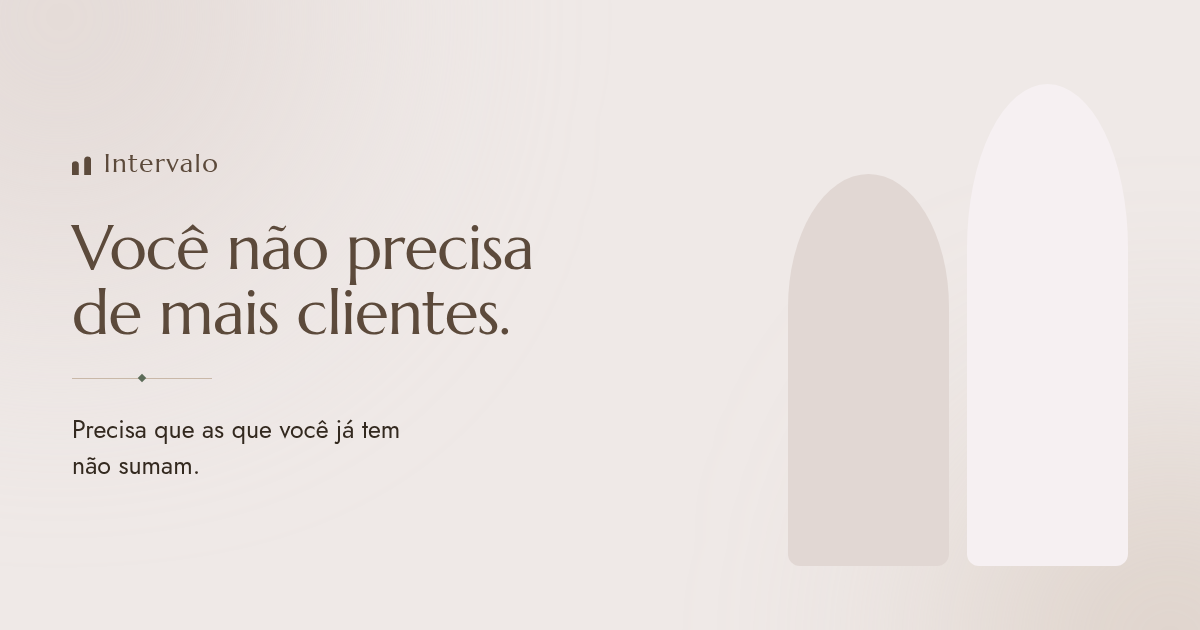
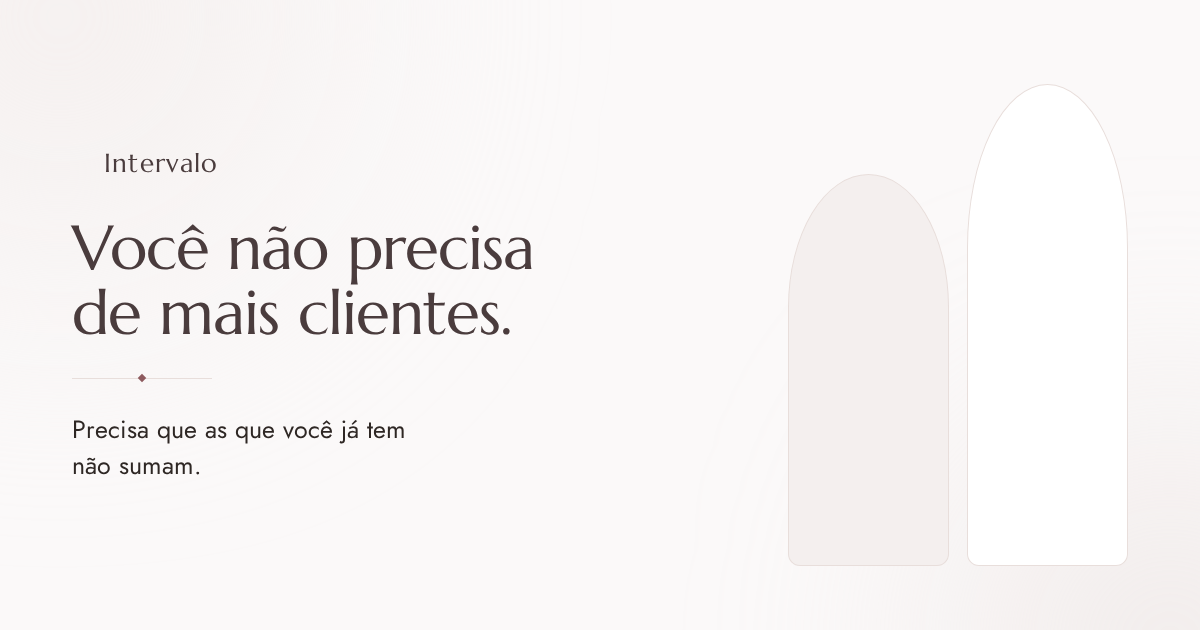
Paleta clara: o site deixa de se apoiar em bloco escuro
Direcao escolhida: branco e filete. As duas faixas escuras, o rodape e a tarja
de anuncio eram quatro massas de espresso que davam o peso — e o tom lido de
fora era mais cafe artesanal que clinica. O ritmo da pagina passa a vir de
mudanca sutil de superficie, de filete e de espaco.

Paleta nova, com contraste medido antes de escrever qualquer linha: canvas
#fbf9f9 (branco com um sopro de rosa — branco puro em tela cheia endurece),
porcelana #ffffff para superficie elevada, greige #f4efee para a faixa
alternada, espresso #4a3c3d nos titulos e botoes, tinta #2e2724 no corpo,
acento rosa-seco #8d5a5e e areia #e8dedb so em filete.

O acento foi escolhido por medicao, nao por gosto: um rosa mais claro passava
no canvas e reprovava sobre o greige, entao ficou o tom que passa nos tres
fundos (5.33 / 5.59 / 4.91).

`.faixa-escura` virou `.faixa-destaque` nas cinco paginas, e as vinte regras
que existiam so para reescrever cor sobre fundo escuro sairam — com fundo
claro, a cor padrao ja serve.

Tres defeitos que so apareceram porque foram procurados:

1. A auditoria de contraste conferia HEXES COPIADOS. Trocar a paleta inteira
   deixava ela imprimindo "ok" para cores que nao existiam mais em lugar
   nenhum. Os pares passam a nomear tokens e resolver o valor do JSON. Uma
   auditoria que mente e pior que nenhuma: ninguem confere a mao o que o
   comando ja aprovou.
2. `.rodape .identidade` e `.assinatura-marca` ficaram em greige sobre canvas,
[…]

diff --git a/site/estilo.css b/site/estilo.css
@@ -34,8 +34,13 @@ a:focus-visible, button:focus-visible, input:focus-visible, summary:focus-visibl
 .faixa { padding-block: var(--spacing-80); }
 .faixa-elevada { background: var(--surface-elevada); }
 .faixa-secundaria { background: var(--surface-secundaria); }
-.faixa-escura { background: var(--surface-escura); color: var(--color-greige); }
-.faixa-escura h1, .faixa-escura h2, .faixa-escura h3, .faixa-escura strong { color: var(--color-porcelana); }
+/* A faixa que antes era escura agora e um tom de fundo e dois filetes. O
+   ritmo da pagina passa a vir de mudanca sutil de superficie e de espaco,
+   nao de bloco escuro — que era o que pesava o site inteiro. */
+.faixa-destaque {
+  background: var(--surface-secundaria);
+  border-block: 1px solid var(--color-areia);
+}
 @media (max-width: 700px) { .faixa { padding-block: var(--spacing-56); } }
 
 /* ---------- tipografia ---------- */
@@ -57,12 +62,10 @@ h3 { font-size: var(--texto-heading-sm-tamanho); line-height: 1.25; margin-botto
   font-size: 12px; letter-spacing: .22em; text-transform: uppercase;
   color: var(--color-eucalipto); margin: 0 0 var(--spacing-16);
 }
-.faixa-escura .olho { color: var(--color-greige); }
 
 p { max-width: 62ch; margin: 0 0 var(--spacing-16); }
 .lede { font-size: var(--texto-body-lg-tamanho); line-height: 1.6; max-width: 50ch; }
 .sub { color: var(--color-espresso); max-width: 58ch; }
-.faixa-escura .sub, .faixa-escura p { color: var(--color-greige); }
 
 .filete { width: 56px; height: 1px; background: var(--color-areia); margin: var(--spacing-24) 0; border: 0; }
 
@@ -84,24 +87,22 @@ p { max-width: 62ch; margin: 0 0 var(--spacing-16); }
 
 .botao-vazado { background: transparent; color: var(--color-espresso); border-color: var(--color-areia); }
 .botao-vazado:hover { background: var(--color-espresso); border-color: var(--color-espresso); color: var(--color-porcelana); }
-.faixa-escura .botao { background: var(--color-porcelana); color: var(--color-espresso); border-color: var(--color-porcelana); }
-.faixa-escura .botao:hover { background: var(--color-greige); border-color: var(--color-greige); }
-.faixa-escura .botao-vazado { background: transparent; color: var(--color-porcelana); border-color: var(--color-areia); }
-.faixa-escura .botao-vazado:hover { background: var(--color-porcelana); color: var(--color-espresso); }
 
 .nota-acao { font-size: var(--texto-small-tamanho); color: var(--color-espresso); margin: var(--spacing-16) 0 0; max-width: 48ch; }
-.faixa-escura .nota-acao { color: var(--color-greige); }
 
 /* ---------- cabeçalho ---------- */
 
+/* Tarja clara com filete embaixo. Escura, ela era a primeira coisa da pagina e
+   dava o tom errado — 70px de bloco pesado antes de a marca aparecer. */
 .anuncio {
-  background: var(--color-espresso); color: var(--color-greige);
-  text-align: center; padding: 11px var(--spacing-20);
+  background: var(--surface-secundaria); color: var(--color-tinta);
+  border-bottom: 1px solid var(--color-areia);
+  text-align: center; padding: 10px var(--spacing-20);
   font-size: var(--texto-small-tamanho); letter-spacing: .04em;
 }
-.anuncio a { color: var(--color-porcelana); }
+.anuncio a { color: var(--color-eucalipto); }
 
-.topo { background: var(--surface-canvas); border-bottom: 1px solid var(--color-greige); position: sticky; top: 0; z-index: 20; }
+.topo { background: var(--surface-canvas); border-bottom: 1px solid var(--color-areia); position: sticky; top: 0; z-index: 20; }
 .topo .rail { display: flex; align-items: center; justify-content: space-between; gap: var(--spacing-24); min-height: 78px; }
 .marca {
   font-family: var(--font-display); font-size: 25px; color: var(--color-espresso);
@@ -185,16 +186,14 @@ p { max-width: 62ch; margin: 0 0 var(--spacing-16); }
 .cartao {
   background: var(--surface-elevada); border-radius: var(--radius-card);
   padding: var(--layout-card-padding); display: flex; flex-direction: column; gap: var(--spacing-8);
-  border: 1px solid var(--color-greige);
+  border: 1px solid var(--color-areia);
 }
 .faixa-elevada .cartao { background: var(--surface-canvas); }
-.faixa-escura .cartao { background: transparent; border-color: var(--color-eucalipto); }
 .cartao p { font-size: 15px; margin: 0; max-width: none; }
 .cartao .quando {
   font-size: 11px; font-weight: 500; letter-spacing: .16em; text-transform: uppercase;
   color: var(--color-eucalipto); margin-bottom: var(--spacing-4);
 }
-.faixa-escura .cartao .quando { color: var(--color-greige); }
 
 /* Sete cartoes numa grade de tres colunas deixavam o setimo sozinho, com um
    buraco de duas colunas ao lado. Ele ocupa a linha inteira e vira fecho: e o
@@ -239,9 +238,7 @@ p { max-width: 62ch; margin: 0 0 var(--spacing-16); }
    `:has()` cai no padrao e so fica mais espacado — nada quebra. */
 .faixa:has(> .rail > .numeros) { padding-block: var(--spacing-56); }
 .numeros .rot { display: block; font-size: 11px; font-weight: 500; letter-spacing: .16em; text-transform: uppercase; color: var(--color-eucalipto); margin-bottom: var(--spacing-8); }
-.faixa-escura .numeros .rot { color: var(--color-greige); }
 .numeros .val { font-family: var(--font-display); font-size: 46px; line-height: 1; color: var(--color-espresso); font-variant-numeric: tabular-nums; }
-.faixa-escura .numeros .val { color: var(--color-porcelana); }
 .numeros .obs { font-size: 14px; margin-top: var(--spacing-8); max-width: 24ch; }
 
 /* DEPOIS de `.numeros .val`, de proposito: as duas regras tem a mesma
@@ -269,7 +266,6 @@ p { max-width: 62ch; margin: 0 0 var(--spacing-16); }
   display: flex; align-items: center; justify-content: center;
   font-family: var(--font-display); font-size: 21px; z-index: 1;
 }
-.faixa-escura .passos .n { background: transparent; color: var(--color-porcelana); }
 .passos p { margin: 0; font-size: 15.5px; }
 
 /* ---------- depoimento ---------- */
@@ -320,17 +316,23 @@ p { max-width: 62ch; margin: 0 0 var(--spacing-16); }
 
 /* ---------- rodapé ---------- */
 
-.rodape { background: var(--color-espresso); color: var(--color-greige); padding-block: var(--spacing-64) var(--spacing-80); font-size: 15px; }
+/* Rodape claro, separado por filete. Um bloco escuro no fim desfazia, em uma
+   tela, o que a pagina inteira construiu de leveza. */
+.rodape {
+  background: var(--surface-canvas); color: var(--color-tinta);
+  border-top: 1px solid var(--color-areia);
+  padding-block: var(--spacing-64) var(--spacing-80); font-size: 15px;
+}
 .rodape .rail { display: flex; flex-wrap: wrap; gap: var(--spacing-40) var(--spacing-64); justify-content: space-between; }
 /* inline-flex, nao inline-block: `.rodape .marca` (0,2,0) vence `.marca`
    (0,1,0), e um inline-block aqui desalinharia o simbolo do texto. */
-.rodape .marca { color: var(--color-porcelana); margin-bottom: var(--spacing-16); display: inline-flex; }
+.rodape .marca { color: var(--color-espresso); margin-bottom: var(--spacing-16); display: inline-flex; }
 
 .rodape p { margin: 0 0 var(--spacing-8); max-width: 42ch; font-size: 14px; }
-.rodape a { color: var(--color-greige); text-decoration: none; }
-.rodape a:hover { color: var(--color-porcelana); }
+.rodape a { color: var(--color-tinta); text-decoration: none; }
+.rodape a:hover { color: var(--color-eucalipto); }
 .rodape .coluna { display: flex; flex-direction: column; gap: var(--spacing-8); }
-.rodape .tit { font-size: 11px; font-weight: 500; letter-spacing: .16em; text-transform: uppercase; color: var(--color-greige); margin-bottom: var(--spacing-4); }
+.rodape .tit { font-size: 11px; font-weight: 500; letter-spacing: .16em; text-transform: uppercase; color: var(--color-eucalipto); margin-bottom: var(--spacing-4); }
 
 /* ---------- movimento ----------
    Uma revelação só, ancorada na rolagem. Sem biblioteca e sem JS: onde o
@@ -398,16 +400,12 @@ body > * { position: relative; z-index: 2; }
 .viva-fundo > .rail { position: relative; z-index: 1; }
 .brilho { position: absolute; inset: -20% -10%; z-index: 0; pointer-events: none; filter: blur(90px); }
 .brilho span { position: absolute; display: block; border-radius: 50%; opacity: .55; }
-.brilho span:nth-child(1) { width: 46vw; height: 46vw; left: -6%;  top: -14%; background: var(--color-greige); animation: derivaA 54s ease-in-out infinite alternate; }
+.brilho span:nth-child(1) { width: 46vw; height: 46vw; left: -6%;  top: -14%; background: var(--color-eucalipto); opacity: .07; animation: derivaA 54s ease-in-out infinite alternate; }
 .brilho span:nth-child(2) { width: 38vw; height: 38vw; right: -4%; top: 18%;  background: var(--color-areia);  animation: derivaB 68s ease-in-out infinite alternate; }
-.brilho span:nth-child(3) { width: 30vw; height: 30vw; left: 38%;  bottom: -18%; background: var(--color-porcelana); opacity: .7; animation: derivaC 46s ease-in-out infinite alternate; }
+.brilho span:nth-child(3) { width: 30vw; height: 30vw; left: 38%;  bottom: -18%; background: var(--color-areia); opacity: .5; animation: derivaC 46s ease-in-out infinite alternate; }
 
 /* No escuro a mancha aparece muito mais: menos opacidade e mais desfoque,
    senão vira um anel visível em vez de luz. */
-.faixa-escura .brilho { filter: blur(130px); }
-.faixa-escura .brilho span:nth-child(1) { background: #6d5949; opacity: .5; }
-.faixa-escura .brilho span:nth-child(2) { background: var(--color-eucalipto); opacity: .22; }
-.faixa-escura .brilho span:nth-child(3) { background: #4a3b2f; opacity: .5; }
 
 @keyframes derivaA { from { transform: translate3d(0,0,0) scale(1); } to { transform: translate3d(6vw, 4vh, 0) scale(1.14); } }
 @keyframes derivaB { from { transform: translate3d(0,0,0) scale(1.08); } to { transform: translate3d(-5vw, -5vh, 0) scale(1); } }
@@ -462,7 +460,6 @@ body > * { position: relative; z-index: 2; }
   width: 6px; height: 6px; margin: -3px 0 0 -3px;
   background: var(--color-eucalipto); transform: rotate(45deg);
 }
-.faixa-escura .filete::after { background: var(--color-areia); }
 
 /* Foto única sob um herói centrado: larga, mas sem encostar nas bordas. */
 .larga-central { max-width: 900px; margin: var(--spacing-64) auto 0; }
@@ -492,13 +489,13 @@ body > * { position: relative; z-index: 2; }
 .texto-corrido > *:first-child { margin-top: 0; }
 .texto-corrido p { margin: 0 0 var(--spacing-16); }
 .texto-corrido a { color: inherit; text-underline-offset: 3px; }
-.faixa-escura .texto-corrido h3 { color: var(--color-porcelana); }
 
 /* Identificacao da empresa no rodape: obrigatoria e discreta, nao escondida. */
 .rodape .identidade {
-  /* Greige, nao areia: areia sobre espresso da 4.37:1, que so passa em texto
-     grande — e esta linha e miuda de proposito. */
-  font-size: 12.5px; color: var(--color-greige); opacity: .85;
+  /* Tinta com opacidade, nao um tom claro: o rodape e claro agora, e greige
+     sobre canvas da 1.06:1 — sumia. Discreta se faz por peso, nao por cor
+     apagada, senao a linha obrigatoria vira linha ilegivel. */
+  font-size: 12.5px; color: var(--color-tinta); opacity: .7;
   margin-top: var(--spacing-12); max-width: 46ch;
 }
 
@@ -525,7 +522,5 @@ body > * { position: relative; z-index: 2; }
    nao vai dizer pelos primeiros anos. Fica fixa em todas as paginas. */
 .rodape .assinatura-marca {
   font-size: 11px; letter-spacing: .18em; text-transform: uppercase;
-  /* Greige, nao areia: o token areia diz "NAO use como texto" na propria
-     descricao, porque da 4.37:1 sobre o espresso. */
-  color: var(--color-greige); margin: calc(var(--spacing-16) * -1) 0 var(--spacing-16);
+  color: var(--color-eucalipto); margin: calc(var(--spacing-16) * -1) 0 var(--spacing-16);
 }

diff --git a/src/tokens.ts b/src/tokens.ts
@@ -15,17 +15,25 @@ const ENTRADA = resolve(process.cwd(), "site/tokens.json");
 const SAIDA = resolve(process.cwd(), "site/tokens.css");
 const ESTILO = resolve(process.cwd(), "site/estilo.css");
 
-/** Pares que a referencia prescreve — cada um vira um teste de contraste. */
+/**
+ * Pares que a referencia prescreve — cada um vira um teste de contraste.
+ *
+ * Os pares nomeiam TOKENS, nao hexes. Antes traziam o hex copiado, e o efeito
+ * era pior do que nao ter auditoria: numa troca de paleta o arquivo continuava
+ * conferindo as cores antigas e imprimindo "ok" para uma combinacao que nao
+ * estava mais em lugar nenhum. Uma auditoria que mente e mais perigosa do que
+ * nenhuma, porque ninguem vai conferir a mao o que o comando ja aprovou.
+ */
 const PARES: Array<{ nome: string; frente: string; fundo: string; tamanho: "normal" | "grande" }> = [
-  { nome: "corpo sobre canvas", frente: "#33291f", fundo: "#efe9e7", tamanho: "normal" },
-  { nome: "corpo sobre porcelana", frente: "#33291f", fundo: "#f6f0f2", tamanho: "normal" },
-  { nome: "título espresso sobre canvas", frente: "#5c4a3b", fundo: "#efe9e7", tamanho: "normal" },
-  { nome: "título espresso sobre greige", frente: "#5c4a3b", fundo: "#e1d7d3", tamanho: "normal" },
-  { nome: "botão espresso + porcelana", frente: "#f6f0f2", fundo: "#5c4a3b", tamanho: "normal" },
-  { nome: "botão eucalipto + porcelana", frente: "#f6f0f2", fundo: "#5c6b58", tamanho: "normal" },
-  { nome: "rótulo eucalipto sobre canvas", frente: "#5c6b58", fundo: "#efe9e7", tamanho: "normal" },
-  { nome: "texto suave sobre espresso", frente: "#e1d7d3", fundo: "#5c4a3b", tamanho: "normal" },
-  { nome: "areia sobre espresso (só filete)", frente: "#c9b8a8", fundo: "#5c4a3b", tamanho: "grande" },
+  { nome: "corpo sobre canvas", frente: "tinta", fundo: "canvas", tamanho: "normal" },
+  { nome: "corpo sobre porcelana", frente: "tinta", fundo: "porcelana", tamanho: "normal" },
+  { nome: "corpo sobre greige", frente: "tinta", fundo: "greige", tamanho: "normal" },
+  { nome: "título espresso sobre canvas", frente: "espresso", fundo: "canvas", tamanho: "normal" },
+  { nome: "título espresso sobre greige", frente: "espresso", fundo: "greige", tamanho: "normal" },
+  { nome: "botão espresso + porcelana", frente: "porcelana", fundo: "espresso", tamanho: "normal" },
+  { nome: "rótulo acento sobre canvas", frente: "eucalipto", fundo: "canvas", tamanho: "normal" },
+  { nome: "rótulo acento sobre porcelana", frente: "eucalipto", fundo: "porcelana", tamanho: "normal" },
+  { nome: "rótulo acento sobre greige", frente: "eucalipto", fundo: "greige", tamanho: "normal" },
 ];
 
 function canal(v: number): number {
@@ -146,8 +154,15 @@ async function main(): Promise<void> {
   let reprovados = 0;
   console.log(`\n${SAIDA.split("/").slice(-2).join("/")} gerado.\n`);
   console.log("Contraste dos pares prescritos (WCAG AA: 4.5 normal, 3.0 grande)\n");
+  // Resolve o nome do token para o hex que ESTA no JSON agora.
+  const hexDe = (nome: string): string => {
+    const token = (doc["color"] as Grupo | undefined)?.[nome];
+    if (!token) throw new Error(`par de contraste cita o token "${nome}", que nao existe em tokens.json`);
+    return String(token.$value);
+  };
+
   for (const p of PARES) {
-    const razao = contraste(p.frente, p.fundo);
+    const razao = contraste(hexDe(p.frente), hexDe(p.fundo));
     const minimo = p.tamanho === "grande" ? 3 : 4.5;
     const passa = razao >= minimo;
     if (!passa) reprovados++;

diff --git a/site/midia/og.html b/site/midia/og.html
@@ -48,7 +48,11 @@
   p { font-size: 25px; line-height: 1.45; color: var(--color-tinta); max-width: 24ch; }
   /* O trio de arcos do heroi, reduzido a duas molduras. */
   .arcos { position: relative; z-index: 1; display: flex; gap: 18px; align-items: flex-end; height: 100%; }
-  .arco { flex: 1; background: var(--color-greige); border-radius: var(--radius-arco); }
+  /* Filete em todos: com a paleta clara, porcelana virou branco puro e o arco
+     da direita sumia no fundo. Aqui a forma precisa se sustentar sozinha, sem
+     o contexto da pagina — e uma miniatura de WhatsApp perdoa menos ainda. */
+  .arco { flex: 1; background: var(--color-greige); border: 1px solid var(--color-areia);
+          border-radius: var(--radius-arco); }
   .arco:nth-child(1) { height: 78%; }
   .arco:nth-child(2) { height: 96%; background: var(--color-porcelana); }
 </style>

diff --git a/site/index.html b/site/index.html
@@ -123,7 +123,7 @@
   </div>
 </section>
 
-<section class="faixa faixa-escura viva-fundo" id="garantia">
+<section class="faixa faixa-destaque viva-fundo" id="garantia">
   <div class="brilho" aria-hidden="true"><span></span><span></span><span></span></div>
   <div class="rail">
     <div class="duas">
@@ -246,7 +246,7 @@
   </div>
 </section>
 
-<section class="faixa faixa-escura centro viva-fundo" id="comecar">
+<section class="faixa faixa-destaque centro viva-fundo" id="comecar">
   <div class="brilho" aria-hidden="true"><span></span><span></span><span></span></div>
   <div class="rail rail-estreito">
     <p class="olho">Começar</p>

diff --git a/site/tokens.css b/site/tokens.css
@@ -19,13 +19,13 @@
 
 :root {
   /* Cores */
-  --color-espresso: #5c4a3b;
-  --color-tinta: #33291f;
-  --color-canvas: #efe9e7;
-  --color-porcelana: #f6f0f2;
-  --color-greige: #e1d7d3;
-  --color-eucalipto: #5c6b58;
-  --color-areia: #c9b8a8;
+  --color-espresso: #4a3c3d;
+  --color-tinta: #2e2724;
+  --color-canvas: #fbf9f9;
+  --color-porcelana: #ffffff;
+  --color-greige: #f4efee;
+  --color-eucalipto: #8d5a5e;
+  --color-areia: #e8dedb;
 
   /* Famílias (substitutos das originais) */
   --font-texto: Jost, "Helvetica Neue", Arial, sans-serif;

diff --git a/site/especialistas.html b/site/especialistas.html
@@ -102,7 +102,7 @@
   </div>
 </section>
 
-<section class="faixa faixa-escura" id="perfil">
+<section class="faixa faixa-destaque" id="perfil">
   <div class="rail">
     <div class="duas">
       <div class="foto suave paisagem">
@@ -137,7 +137,7 @@
   </div>
 </section>
 
-<section class="faixa faixa-escura" id="conversar">
+<section class="faixa faixa-destaque" id="conversar">
   <div class="rail rail-estreito">
     <p class="olho">Próximo passo</p>
     <h2>Trinta minutos, sem compromisso e sem contrato na mesa</h2>

diff --git a/site/calculadora.html b/site/calculadora.html
@@ -219,7 +219,7 @@ legend { font-family: var(--font-texto); font-size: 12px; font-weight: 700; lett
   </div>
 </section>
 
-<section class="faixa faixa-escura">
+<section class="faixa faixa-destaque">
   <div class="rail rail-estreito">
     <p class="olho">Descobriu que a agenda vazia é o problema?</p>
     <h2 class="disp">Ela também tem conserto</h2>

diff --git a/site/privacidade.html b/site/privacidade.html
@@ -82,7 +82,7 @@
   </div>
 </section>
 
-<section class="faixa faixa-escura">
+<section class="faixa faixa-destaque">
   <div class="rail rail-estreito">
     <div class="cabecalho">
       <p class="olho">Parte 2</p>

diff --git a/site/enfermeiras.html b/site/enfermeiras.html
@@ -114,7 +114,7 @@
   </div>
 </section>
 
-<section class="faixa faixa-escura">
+<section class="faixa faixa-destaque">
   <div class="rail">
     <div class="duas">
       <div>

diff --git a/README.md b/README.md
@@ -84,6 +84,7 @@ src/whatsapp.ts    custo por mensagem da Meta e o que sobra da mensalidade
 src/tipos.ts       tipos compartilhados
 test/              testes das três peças que não podem errar em silêncio
 scripts/og.mjs     gera a imagem de compartilhamento
+scripts/contraste.mjs  mede o contraste do texto renderizado nas cinco páginas
 ```
 
 `npm run check` roda o typecheck e `npm test` roda os testes. A CI roda os dois,
